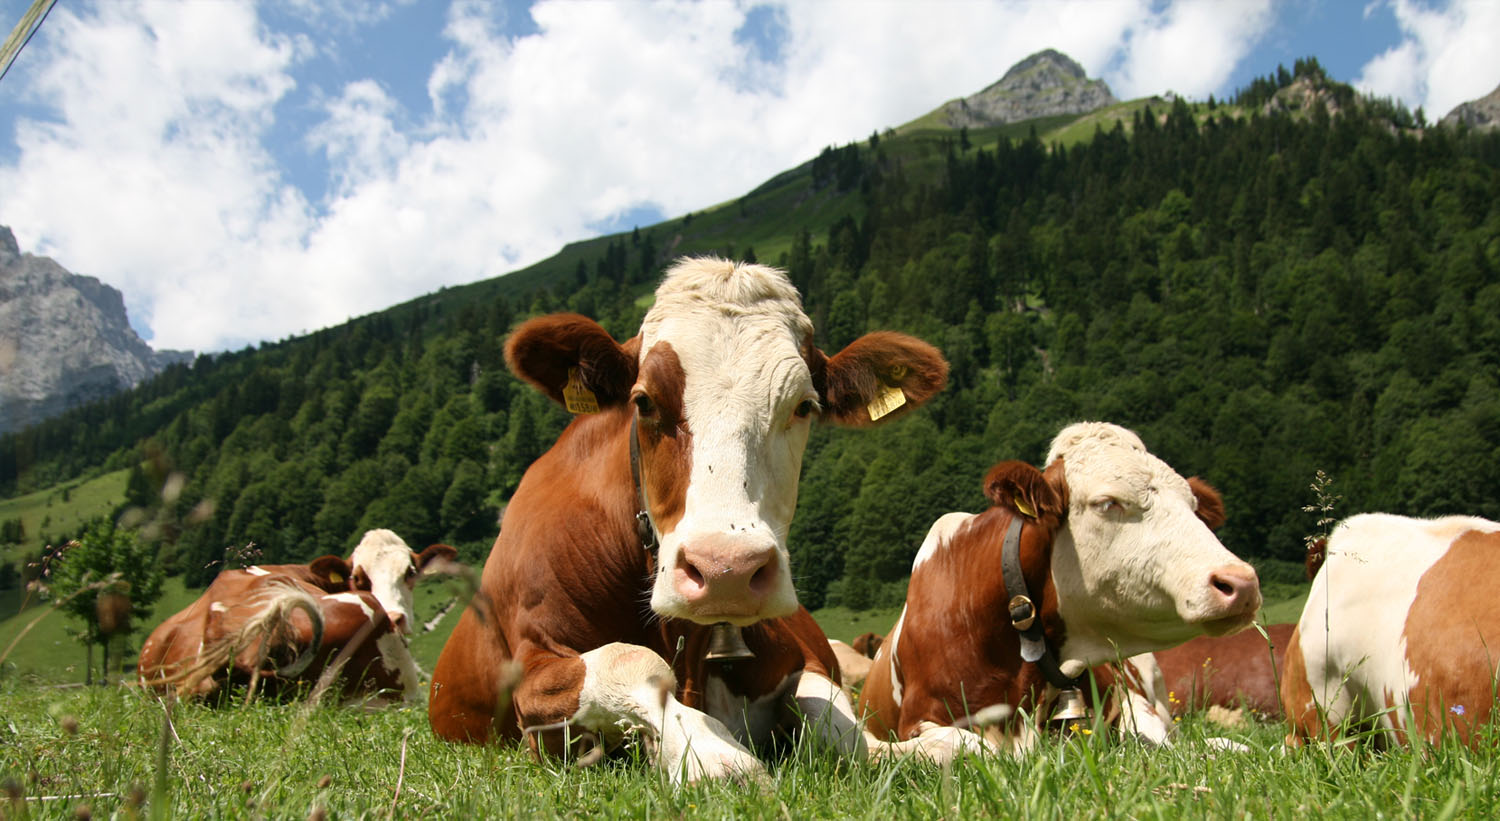
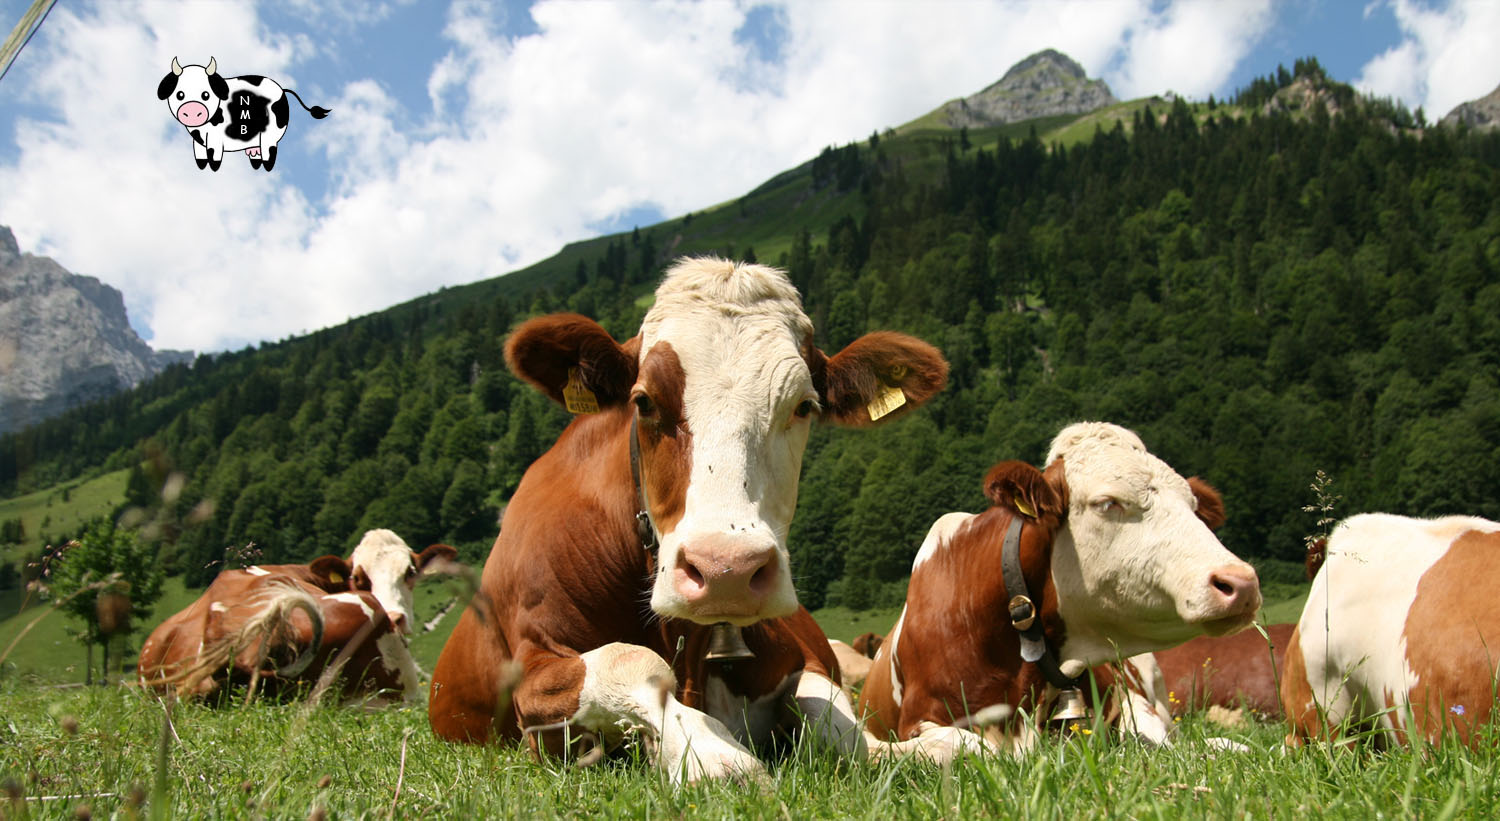
Concept of website was changed.

Changed region(s): [[0.092, 0.0609, 0.2147, 0.2132]]

diff --git a/WebApplication1/src/java/itucs/blg361/g13/HomePage.html b/WebApplication1/src/java/itucs/blg361/g13/HomePage.html
@@ -16,9 +16,13 @@
 	<div id="header">
         
         <div id="sidebar" wicket:id="mainNavigation"></div>
-        
-        <h2>DBMS Milk and its Products</h2>
+        <h1>NMB Milk and</h1>
+        <h1>Milk Products</h1>
         <p class="slogan">For milk</p>
+          <h2>             Our Vision</h2>
+          <h3>          ...........</h3>
+          <h2>            Our Mission</h2>
+          <h3>          ...........</h3>
         <div wicket:id="dateNavigation"></div>
         <ul>
          <li>        

diff --git a/WebApplication1/src/java/itucs/blg361/g13/Machine/MachineTable.html b/WebApplication1/src/java/itucs/blg361/g13/Machine/MachineTable.html
@@ -15,7 +15,7 @@
                 <p class="slogan">For milk</p>
             </div>
         
-        <h2> Agent List</h2>
+        <h2> Machine List</h2>
         <form action="#" wicket:id="machine_list_form">
             <div wicket:id="selected_machine">
                  <div class="datagrid">
